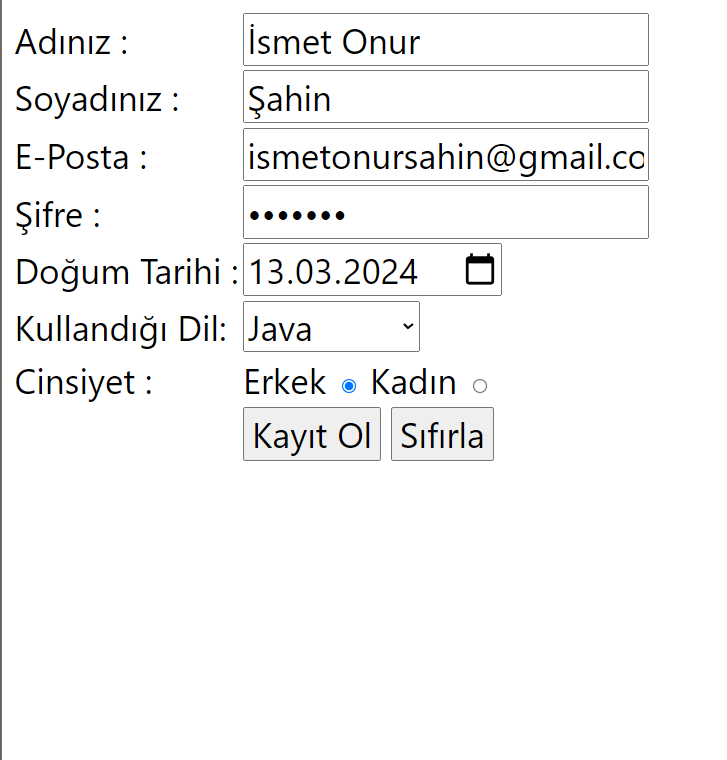
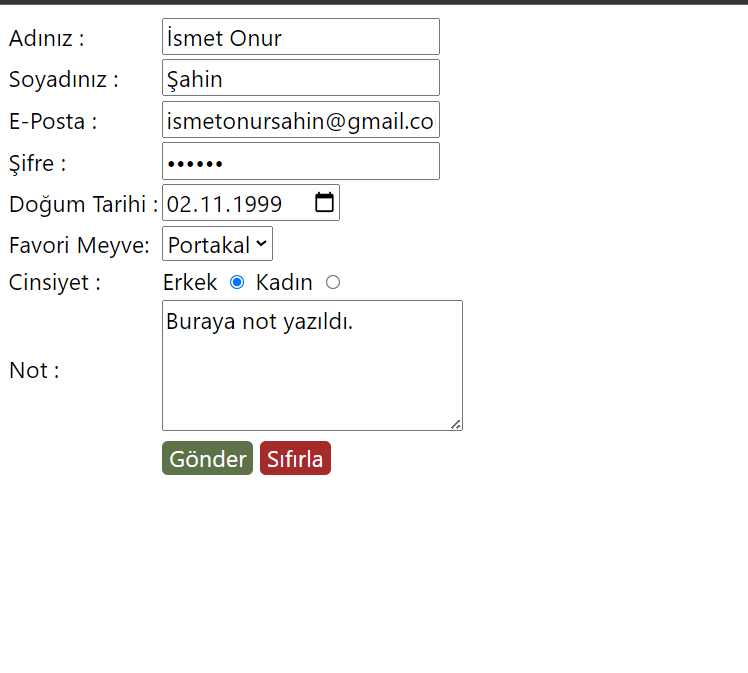
commit

Changed region(s): [[0.0, 0.0, 1.0, 0.6553], [0.2118, 0.6553, 0.4539, 0.7177]]

diff --git a/Form/index.html b/Form/index.html
@@ -51,15 +51,15 @@
         </tr>
         <tr>
           <td>
-            <label for="dil"> Kullandığı Dil:</label>
+            <label for="dil"> Favori Meyve:</label>
           </td>
           <td>
             <select name="" id="">
               <option value=""></option>
-              <option value="HTML">HTML</option>
-              <option value="CSS">CSS</option>
-              <option value="Java">Java</option>
-              <option value="Javascript">Javascript</option>
+              <option value="elma">Elma</option>
+              <option value="muz">Muz</option>
+              <option value="çilek">Çilek</option>
+              <option value="portakal">Portakal</option>
             </select>
           </td>
         </tr>
@@ -73,10 +73,14 @@
           </td>
         </tr>
         <tr>
+          <td>Not :</td>
+          <td><textarea name="message" rows="4" cols="25"></textarea><br /></td>
+        </tr>
+        <tr>
           <td></td>
           <td>
-            <input type="submit" name="" id="" value="Kayıt Ol" />
-            <input type="reset" name="" id="" />
+            <input class="submit" type="submit" name="" id="" value="Gönder" />
+            <input class="reset" type="reset" name="" id="" />
           </td>
         </tr>
       </table>

diff --git a/Form/style.css b/Form/style.css
@@ -1,5 +1,27 @@
 * {
   font-family: system-ui, -apple-system, BlinkMacSystemFont, "Segoe UI", Roboto,
     Oxygen, Ubuntu, Cantarell, "Open Sans", "Helvetica Neue", sans-serif;
-  font-size: 30px;
+  font-size: 20px;
+}
+
+.submit {
+  background-color: rgb(93, 114, 73);
+  border-radius: 5px;
+  color: white;
+  border: none;
+}
+
+.reset {
+  background-color: brown;
+  color: white;
+  border-radius: 5px;
+  border: none;
+}
+
+.reset:hover {
+  cursor: pointer;
+}
+
+.submit:hover {
+  cursor: pointer;
 }
